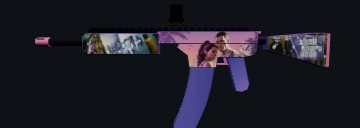
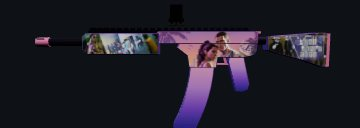
Vice Grin final: sunset gradient on the mag and grip
The mag and pistol grip now fade from the receiver's sunset pink through
lavender and purple to deep indigo (skin-art/vice-gradient.jpg), in place
of the robbery art crops. Still Final locked.

Changed region(s): [[0.4889, 0.4375, 0.7028, 0.875], [0.4583, 0.875, 0.55, 1.0]]

diff --git a/assets/games/troll-ops/skins.js b/assets/games/troll-ops/skins.js
@@ -275,14 +275,14 @@ export const SKINS = [
     blurb: "Leonida sunset, fully loaded.",
     final: true,
     palette: { trim: "#6c3f8e", ink: "#fff4e8", metal: 0x2b2233, accent: 0xff8fb8 },
-    art: { grip: "vice-robbery.jpg", mag: { file: "vice-robbery.jpg", textAreas: [[0.502, 0.36, 0.593, 0.422]] }, stock: "troll-crew-san-andreas.jpg", handguard: "gta6-troll-skin-part.jpg" },
+    art: { grip: "vice-gradient.jpg", mag: "vice-gradient.jpg", stock: "troll-crew-san-andreas.jpg", handguard: "gta6-troll-skin-part.jpg" },
     layers: { receiver: [{ file: "banners/banner-11.jpg", src: [0.345, 0, 1, 1], at: [0.923, 0.587, 0.875], feather: 0.65, opacity: 0.65, id: "rkn0gy", mask: "vice-rkn0gy-mujaulpy.png", lock: 1 }], stock: [{ id: "8osvw2", file: "skin-art/vice-robbery-troll.jpg", src: [0.044, 0.05, 0.376, 0.486], at: [0.64, 0.42, 0.676], text: 1, feather: 0.15, opacity: 0.65, lock: 1, mask: "vice-8osvw2-mukhm6ar.png" }] },
     crops: {
       receiver: [0.5, 0.344, 1],
       handguard: [0.369, 0.413, 0.746, 17.019],
       stock: [0.489, 0.627, 0.977],
-      grip: [0.034, 0.348, 0.074, 26.983],
-      mag: [0.056, 0.283, 0.051, -90],
+      grip: [0.5, 0.5, 0.59],
+      mag: [0.5, 0.5, 0.61],
     },
   },
 ];
